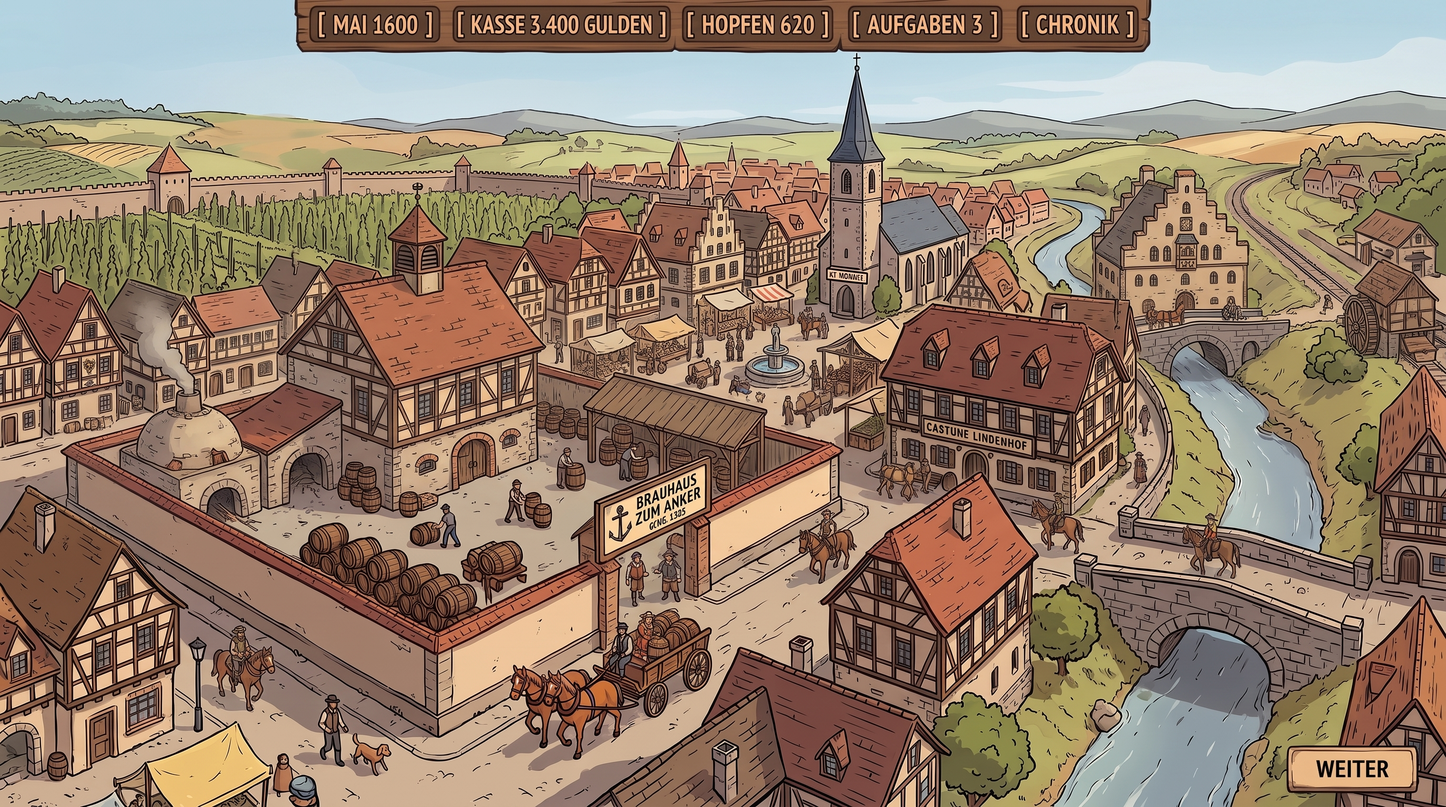
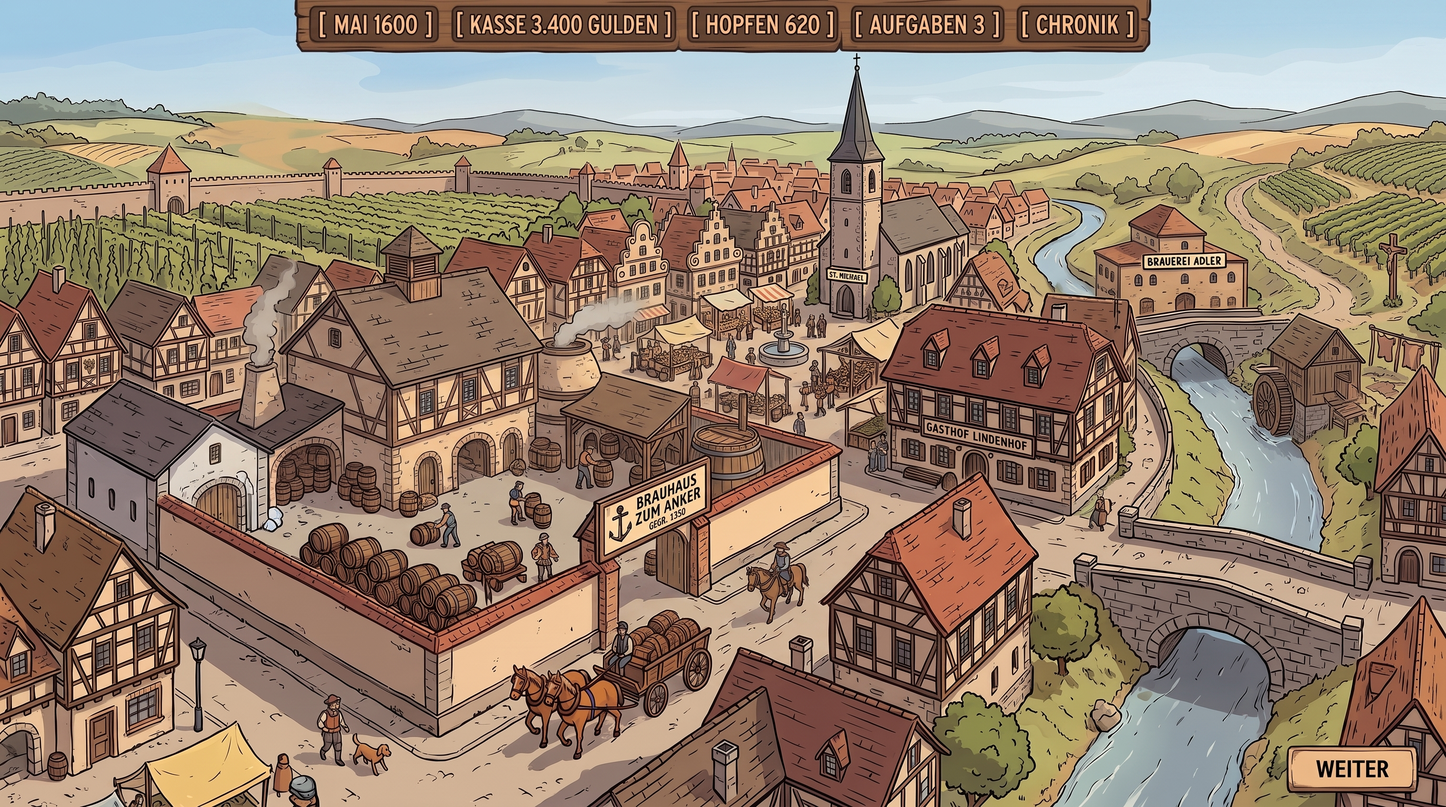
Fix the bar before the builders reach it
The 1600 target had inherited the railway from the 1884 anchor. Garbled
labels are harmless — the built game renders real text — but an anachronism
inside the bar is not: a builder copies it faithfully and then loses the round
to the veto list it was told to respect. A fault in the measuring stick costs
more than one in the work.

Regenerated 1600 and 1970 with the railway explicitly forbidden for 1600, the
signboard wording dictated verbatim, and 1970's town wall reduced to the
fragment in a park it should always have been. Both now read correctly.

1884 keeps its "GEGR. 1356". It is the style anchor every other sheet derives
from; rerolling it means rerolling the set, and the year carries no play
information. Recorded in the README rather than quietly left.

Claude-Session: https://claude.ai/code/session_01GvbmgJEAPZxQGtUTzscc3n

diff --git a/zielbild/README.md b/zielbild/README.md
@@ -28,25 +28,29 @@ abgeleitet, damit Kamera, Stil und **Ort** identisch bleiben.
 Durchlaufend in allen vier Bildern: der Fluss von rechts, die Brücke an derselben Stelle,
 die Kirche, die Hügelkette, die Kameraposition, die Kopfleiste, die WEITER-Tafel.
 
-## Bekannte Fehler
+## Fehler und was daraus wurde
 
-Sie sind hier verzeichnet, damit niemand sie für Absicht hält.
-
-| Bild | Fund |
-|---|---|
-| `02-1600.jpg` | „ST. MICHAEL" ist zu **„KT MONMEE"** zerfallen, „GASTHOF LINDENHOF" zu **„CASTUNE LINDKNHOF"**. Zusätzlich hat der Lauf die **Bahnlinie** aus dem Ankerbild mitgeschleppt — 1600 ein klarer Anachronismus |
-| `04-1970.jpg` | Dieselben zwei Beschriftungen, hier **„TE JASMHCI"** und **„GASTONE LINDKNHOF"**. Die Stadtmauer im Hintergrund ist noch vollständig, statt Fragment zu sein |
-| `03-1884.jpg` | „GEGR. 1356" statt 1350 |
-| `02-1600.jpg` | „GCNG. 1385" statt „GEGR. 1350" |
-
-Alle Textfunde haben dieselbe Ursache, und sie steht bereits in
+Der erste Satz hatte in 1600 und 1970 dieselben zerfallenen Beschriftungen — aus
+„ST. MICHAEL" wurde „KT MONMEE" bzw. „TE JASMHCI", aus „GASTHOF LINDENHOF" wurde
+„CASTUNE LINDKNHOF". Ursache steht in
 [`../design/PRUEFUNG.md`](../design/PRUEFUNG.md) §4.1: **`--ref` sieht Kleinschrift nur als
-Textur und würfelt sie neu**, auch die Buchstaben, die vorher richtig waren. Wer das
-reparieren will, erzeugt frisch mit korrigiertem Prompt statt nachzubessern.
+Textur und würfelt sie neu**, auch die Buchstaben, die vorher richtig waren.
 
-**Für die Messlatte sind diese Fehler unerheblich.** Im gebauten Spiel ist Text echter Text,
-vom Programm gesetzt. Gemessen werden Stil, Dichte, Stimmung und Aufbau — nicht die
-gezeichneten Buchstaben.
+Textfehler allein hätten die Latte nicht beschädigt — im gebauten Spiel ist Text echter,
+vom Programm gesetzter Text. **Ein Fund war aber gefährlich:** Das 1600er Blatt hatte die
+**Bahnlinie** aus dem Ankerbild geerbt. Eine Latte, die selbst einen Anachronismus enthält,
+verleitet den Builder dazu, ihn nachzubauen — und lässt ihn dann an der Sperrliste
+scheitern. Ein Fehler in der Messlatte kostet mehr als einer im Gebauten.
+
+Deshalb wurden `02-1600.jpg` und `04-1970.jpg` neu erzeugt, mit ausdrücklichem Verbot der
+Bahn für 1600 und wörtlich vorgegebenen Beschriftungen. Beide sind jetzt sauber; 1970 zeigt
+zusätzlich die Stadtmauer korrekt als **Fragment in einer kleinen Grünanlage** statt als
+geschlossenen Ring.
+
+Offen geblieben ist eine Kleinigkeit in `03-1884.jpg`: dort steht **„GEGR. 1356" statt
+1350**. Das Bild ist der Stilanker, aus dem alle anderen abgeleitet wurden — es neu zu
+würfeln hieße, den ganzen Satz neu zu würfeln. Die Jahreszahl trägt keine Spielinformation.
+Sie bleibt stehen und ist hier verzeichnet, damit niemand sie für Absicht hält.
 
 ## Reproduzieren
 
